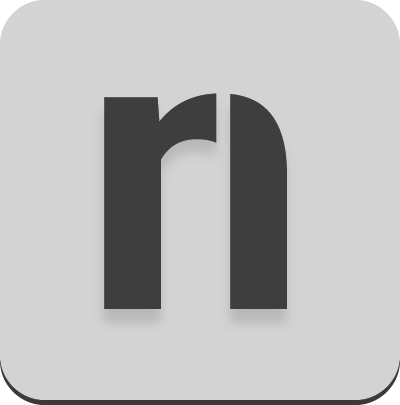
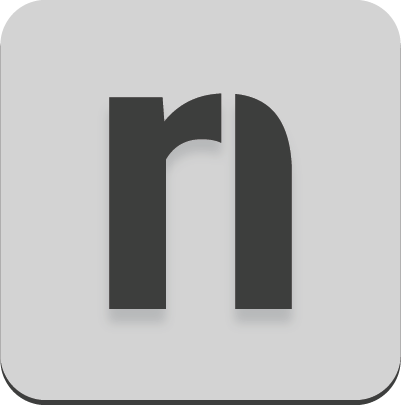
iconfix

diff --git a/index.html b/index.html
@@ -37,7 +37,7 @@
 							<p>En reddit-klient för<br />
 							Android<br />
 							
-							<img src="images/netreddit_icon.png">
+							<img src="images/netreddit_icon.png" style="width:100px; height: auto; margin-top: 40px;">
 							<ul class="actions">
 								<li><a href="#" class="button special">Ladda ner</a></li>
 							</ul>
